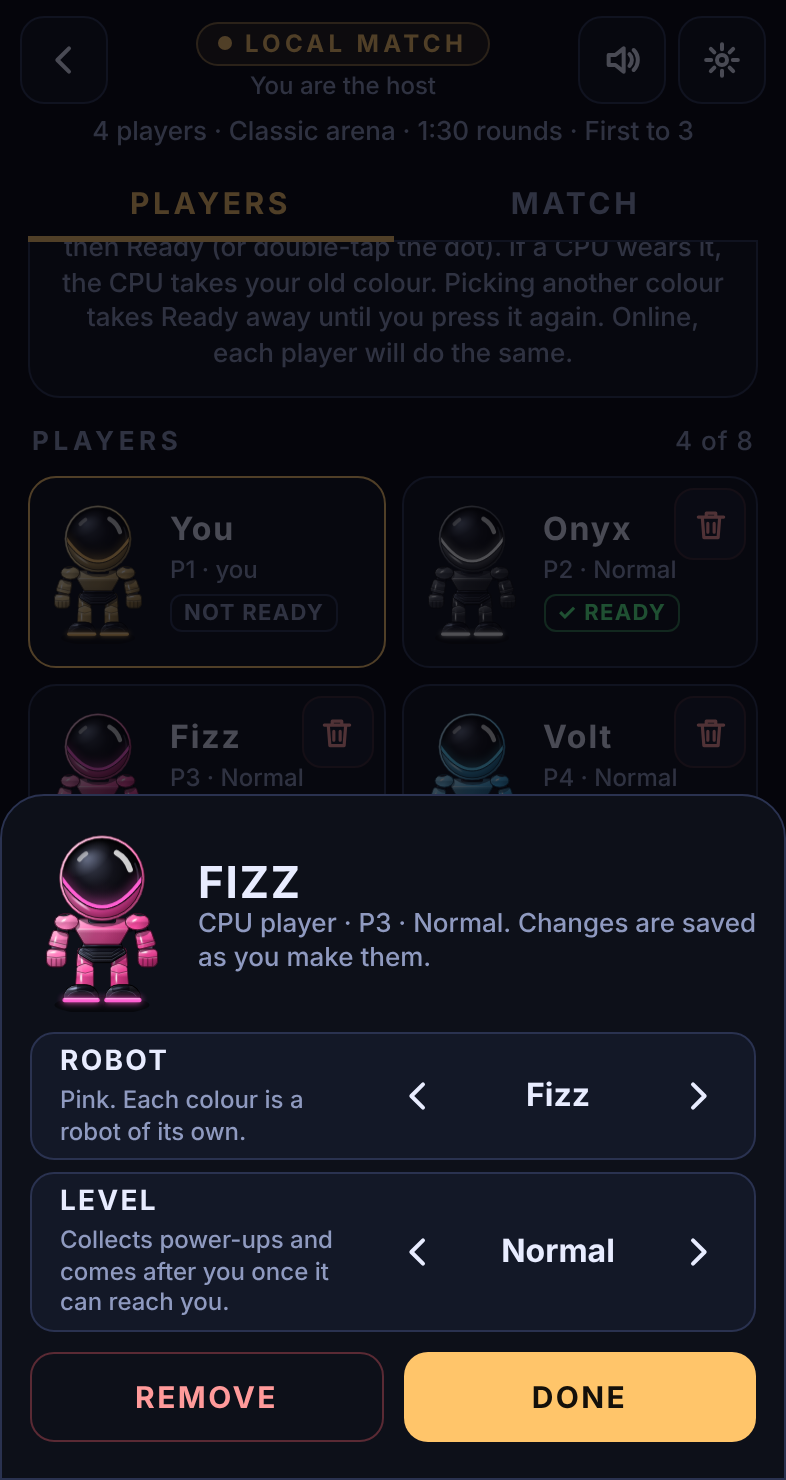
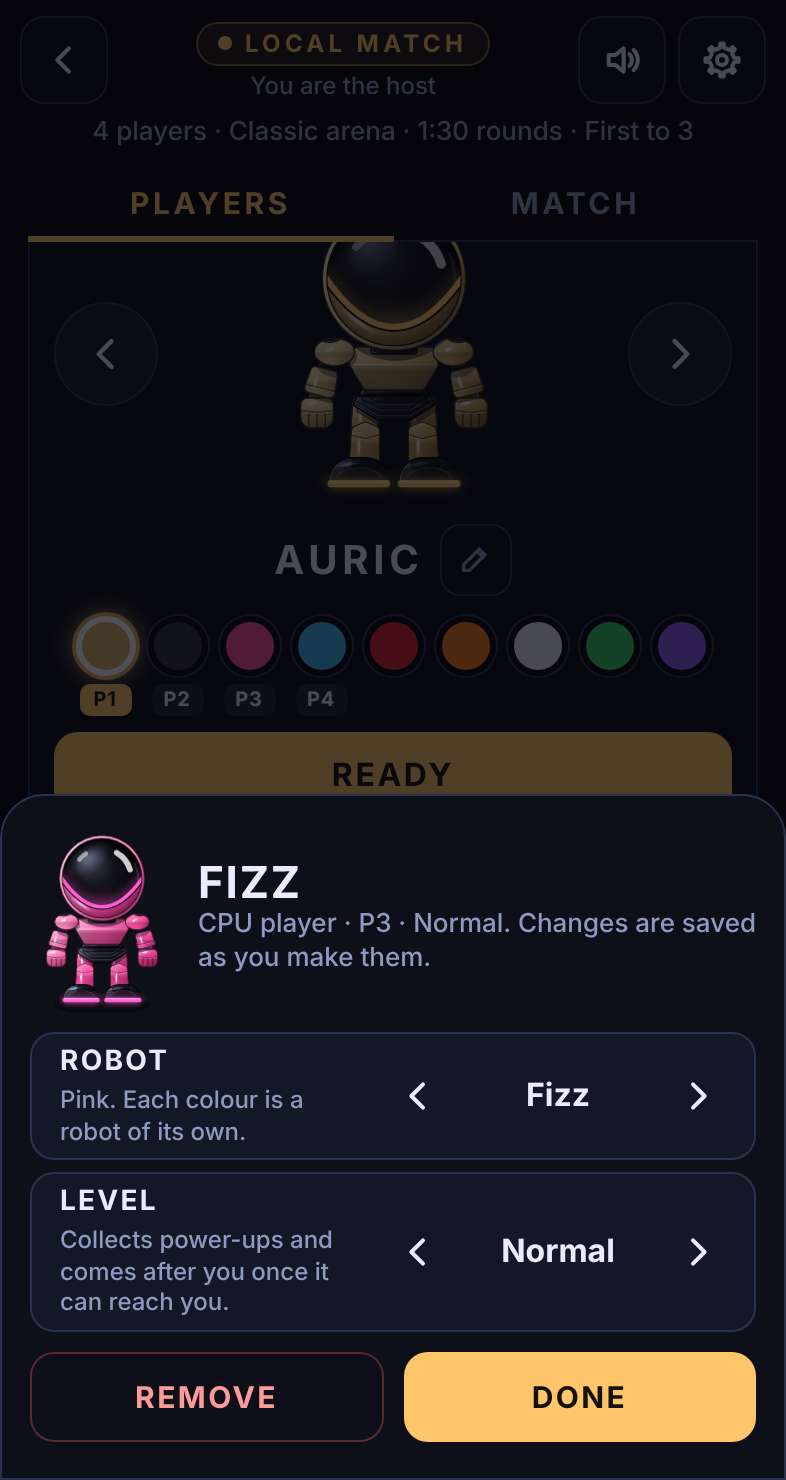
Lobby: a pencil for your name, no explanations, a gear for Settings
The "Your name" row is gone: a pencil beside the name over the colour
dots swaps it for a box to type your own name in its place. Emptied,
it goes back to the robot's name. The help paragraphs on the Players
page are removed; only "Swaps with P3" shows when Ready would take a
CPU player's colour. The Settings button is now a gear.

Claude-Session: https://claude.ai/code/session_011ftAyXDt63myZfd3j4Vhew

diff --git a/src/page.html b/src/page.html
@@ -20,7 +20,7 @@
     touch     on-screen controls: dzone (swipe pad, with the dpad cross and the padTag caption inside it), btnA, btnB
     lobby     setting up a match (lobby.ts): the bar (lobbyBack, lobbyMode, lobbySound, lobbySettings), the summary,
               two pages (pgPlayers, pgMatch): lobbyPlayers (your robot youBot with colPrev, colNext and the colour
-              dots youDots; your name myName; the player cards in slots; allCpus) and lobbyMatch (the arena picture arenaPic with
+              dots youDots; the name over them, youName, with editName, the pencil that swaps it for a box (myName) to type your own; the player cards in slots; allCpus) and lobbyMatch (the arena picture arenaPic with
               arenaPrev, arenaNext, arenaDots, and a Start under it, arenaStart; the rules; rulesReset); then lobbyPrev, lobbyStart, lobbyNext
     cpuSheet  a CPU player's panel, over the lobby: colour and level (cpuRows), cpuRemove, cpuDone
     settings  your own settings, three pages: setControls (Steering thumb: handLeft, handRight; Swipe
@@ -452,6 +452,16 @@
   .ptag.me { color: #14100a; background: var(--accent); }
   .ptag.pop { animation: ptag-pop 420ms cubic-bezier(.2, 1.6, .4, 1); }
   @keyframes ptag-pop { 0% { transform: scale(0.3); } 60% { transform: scale(1.45); } 100% { transform: scale(1); } }
+  .name-row { display: flex; align-items: center; justify-content: center; gap: 8px; min-height: 40px; max-width: 100%; }
+  .icon-btn.pen { width: 36px; height: 36px; border-radius: 10px; color: var(--ink-dim); }
+  .icon-btn.pen svg { width: 17px; height: 17px; }
+  .name-edit {
+    width: 12ch; height: 40px; padding: 0 10px; text-align: center; font: 700 20px/1 var(--font-display); letter-spacing: 0.08em; color: var(--ink);
+    background: #151a28; border: 1px solid var(--accent); border-radius: 10px; outline: none; -webkit-user-select: text; user-select: text; touch-action: manipulation;
+  }
+  .name-edit[hidden] { display: none; }
+  .big-name[hidden] { display: none; }
+  #youState:empty { display: none; }
   .name-field { width: 100%; display: flex; align-items: center; gap: 10px; padding: 2px 2px 4px; }
   .name-field span { flex: 0 0 auto; font: 700 12px/1 var(--font-display); letter-spacing: 0.12em; text-transform: uppercase; color: var(--ink-dim); }
   .name-field input {
@@ -700,7 +710,7 @@
     </div>
     <div class="bar-end">
       <button id="lobbySound" class="icon-btn" type="button" aria-label="Sound settings"><svg viewBox="0 0 24 24" aria-hidden="true"><path d="M4 9h4l5-4v14l-5-4H4z"/><path d="M16.5 8.5a5 5 0 0 1 0 7M19 6a8.5 8.5 0 0 1 0 12"/></svg></button>
-      <button id="lobbySettings" class="icon-btn" type="button" aria-label="Settings"><svg viewBox="0 0 24 24" aria-hidden="true"><circle cx="12" cy="12" r="3"/><path d="M12 2.5v3M12 18.5v3M2.5 12h3M18.5 12h3M5.3 5.3l2.1 2.1M16.6 16.6l2.1 2.1M5.3 18.7l2.1-2.1M16.6 7.4l2.1-2.1"/></svg></button>
+      <button id="lobbySettings" class="icon-btn" type="button" aria-label="Settings"><svg viewBox="0 0 24 24" aria-hidden="true"><path d="M19.29 10.73 L21.95 10.98 L21.95 13.02 L19.29 13.27 L18.05 16.26 L19.75 18.31 L18.31 19.75 L16.26 18.05 L13.27 19.29 L13.02 21.95 L10.98 21.95 L10.73 19.29 L7.74 18.05 L5.69 19.75 L4.25 18.31 L5.95 16.26 L4.71 13.27 L2.05 13.02 L2.05 10.98 L4.71 10.73 L5.95 7.74 L4.25 5.69 L5.69 4.25 L7.74 5.95 L10.73 4.71 L10.98 2.05 L13.02 2.05 L13.27 4.71 L16.26 5.95 L18.31 4.25 L19.75 5.69 L18.05 7.74 Z"/><circle cx="12" cy="12" r="3"/></svg></button>
     </div>
   </header>
   <p class="summary" id="lobbySummary" aria-live="polite"></p>
@@ -712,24 +722,23 @@
     <div class="cols">
       <section id="lobbyPlayers" class="page" role="tabpanel" aria-labelledby="pgPlayers">
         <div class="panel you">
-          <label class="name-field" for="myName"><span>Your name</span>
-            <input id="myName" type="text" maxlength="12" autocomplete="off" autocapitalize="words" spellcheck="false" enterkeyhint="done" placeholder="Type your name">
-          </label>
           <div class="you-row">
             <button class="round-btn" id="colPrev" type="button" aria-label="Previous colour"><svg viewBox="0 0 24 24" aria-hidden="true"><path d="M15 5l-7 7 7 7"/></svg></button>
             <canvas id="youBot" role="img" aria-label="Your robot"></canvas>
             <button class="round-btn" id="colNext" type="button" aria-label="Next colour"><svg viewBox="0 0 24 24" aria-hidden="true"><path d="M9 5l7 7-7 7"/></svg></button>
           </div>
-          <div class="big-name" id="youName"></div>
+          <div class="name-row">
+            <div class="big-name" id="youName"></div>
+            <input id="myName" class="name-edit" type="text" maxlength="12" autocomplete="off" autocapitalize="words" spellcheck="false" enterkeyhint="done" placeholder="Your name" aria-label="Your name" hidden>
+            <button class="icon-btn pen" id="editName" type="button" aria-label="Type your own name"><svg viewBox="0 0 24 24" aria-hidden="true"><path d="M4 20h4L19 9l-4-4L4 16v4zM13.5 6.5l4 4"/></svg></button>
+          </div>
           <p class="hint center" id="youState" aria-live="polite"></p>
           <div class="dots" id="youDots" role="group" aria-label="Colours: under each, the player who wears it"></div>
           <button class="go ok" id="colOk" type="button">Ready</button>
-          <p class="hint center">Each colour is a robot with a name of its own. Pick one with the arrows, a dot or a swipe across your robot, then Ready (or double-tap the dot). If a CPU wears it, the CPU takes your old colour. Picking another colour takes Ready away until you press it again. Online, each player will do the same.</p>
         </div>
         <div class="sec-head"><span>Players</span><span id="playerCount"></span></div>
         <div class="slots" id="slots"></div>
         <div class="opts" id="allCpus"></div>
-        <p class="hint" id="playersNote">Tap a CPU player to change its colour or level. The bin removes it at once (Undo brings it back). Up to 8 players: you and 7 CPU players. With more than 6, the arena grows by two tiles each way. CPU players are always ready.</p>
       </section>
       <section id="lobbyMatch" class="page" role="tabpanel" aria-labelledby="pgMatch">
         <div class="sec-head"><span>Arena</span><span id="arenaCount"></span></div>

diff --git a/src/lobby.ts b/src/lobby.ts
@@ -160,28 +160,41 @@ export function createLobby(host: LobbyHost): {
     dots.append(cell);
   }
   $('colOk').addEventListener('click', readyUp);
-  // your own name: shown on your card. Online, every real player will type theirs here.
+  // Your own name: the pencil beside the name over the colours swaps it for a box to type in (the owner's
+  // design). Your name then shows there and on your card in place of the robot's. Emptied, it goes back to
+  // the robot's name. Online, every real player will type theirs the same way.
   const nameBox = $<HTMLInputElement>('myName');
+  function editName(on: boolean): void {
+    if (on) {
+      nameBox.value = host.myName;
+      nameBox.hidden = false;
+      $('youName').hidden = true;
+      nameBox.focus();
+      nameBox.select();
+    } else if (!nameBox.hidden) {
+      host.myName = nameBox.value.replace(/\s+/g, ' ').trim().slice(0, 12);
+      nameBox.hidden = true;
+      $('youName').hidden = false;
+      changed();
+    }
+  }
+  $('editName').addEventListener('pointerdown', (e) => e.preventDefault()); // keep the box's focus: the pencil then finishes the edit
+  $('editName').addEventListener('click', () => editName(nameBox.hidden === true));
   nameBox.addEventListener('input', () => {
     host.myName = nameBox.value.replace(/\s+/g, ' ').trimStart().slice(0, 12);
     buildSlots();
   });
-  nameBox.addEventListener('change', () => {
-    host.myName = host.myName.trim();
-    nameBox.value = host.myName;
-    buildSlots();
-  });
+  nameBox.addEventListener('blur', () => editName(false));
   nameBox.addEventListener('keydown', (e) => {
-    if (e.key === 'Enter') nameBox.blur();
+    if (e.key === 'Enter' || e.key === 'Escape') {
+      e.stopPropagation();
+      editName(false);
+    }
   });
 
   const allCpus: Opt[] = [
     choice({
       label: 'All CPUs',
-      hint: () => {
-        const lv = new Set(s().cpus.map((c) => c.level));
-        return lv.size > 1 ? 'Mixed levels. Set them all at once here, or one at a time on their cards.' : 'Sets every CPU player at once. Each can also be set on its own card.';
-      },
       values: () => BOT_LEVELS.map((l) => LEVELS[l].label),
       get: () => {
         const lv = new Set(s().cpus.map((c) => c.level));
@@ -566,15 +579,9 @@ export function createLobby(host: LobbyHost): {
     // your robot, in the colour being looked at, and the dots with who wears each colour under them
     drawBotOn($<HTMLCanvasElement>('youBot'), pick, 0.95);
     $('youBot').setAttribute('aria-label', `Your robot, in ${shown.name}${mine ? '' : ' (not yours until you press OK)'}`);
-    $('youName').textContent = botName(shown);
-    $('youState').textContent =
-      mine && ready
-        ? 'P1 · ready'
-        : mine
-          ? 'P1 · your colour. Press Ready when you are happy with it.'
-          : wearer >= 0
-            ? `${botName(shown)} is P${wearer + 2}, a CPU player, now. Ready takes it, and that CPU player becomes ${botName(colorById(host.myColor))}.`
-            : 'Not yours yet: Ready takes it.';
+    $('youName').textContent = host.myName || botName(shown);
+    // no explanations on this page (the owner's call): only a short note when Ready would swap with a CPU player
+    $('youState').textContent = !mine && wearer >= 0 ? `Swaps with P${wearer + 2}` : '';
     const ok = $<HTMLButtonElement>('colOk');
     ok.disabled = mine && ready;
     ok.textContent = mine && ready ? '✓ Ready' : 'Ready'; // just Ready (the owner's wording): the robot's name is right above it
@@ -634,7 +641,8 @@ export function createLobby(host: LobbyHost): {
         p = p ?? 'players';
       }
       $('lobby').hidden = false;
-      ($('myName') as HTMLInputElement).value = host.myName;
+      nameBox.hidden = true;
+      $('youName').hidden = false;
       setPage(p ?? page);
       $('lobbyStart').focus({ preventScroll: true });
     },

diff --git a/CLAUDE.md b/CLAUDE.md
@@ -37,9 +37,10 @@ Do not undo these unless asked. The reasons are in `docs/ROADMAP.md` and `docs/C
 - Controls: see-through swipe pad on the left, B above A on the right. Swipe from wherever the thumb is; keep it down to keep moving; lift to stop.
 - The robot stops where you let go. Whole-tile stepping was tried and rejected (`stepAssist` exists in `sim.ts` but stays off, with no menu setting).
 - A resting thumb has a quiet zone; small movements, slow drift and bounce-back are ignored. Its size is fixed (`QUIET` 30 px). A menu choice of swipe length was tried and removed: do not bring it back unless asked.
+- The Players page has no explanations (the owner's call): no help paragraphs, only a short "Swaps with P3" under your robot's name when Ready would swap with a CPU player. Settings' icon is a gear.
 - The lobby (`lobby.ts`, setup in `setup.ts`), built to the owner's notes on an approved mockup: every button works, back and forward work, more than one way to do each thing, a switch that reveals a slider under it, more options, each CPU player's level its own, and saying whether play is local or online. Two pages, Players and Match. The Players page cannot start a match (the owner's call): its bottom bar is one wide **Match ›** button. The Match page has ‹ Players and **Start**, and a second Start right under the arena picture (the owner's ask, to be close to hand; `arenaStart`, the same `tryStart`); Start when you are not ready asks first ("Ready as Gold and start"), and a line above the bar says you are not ready. On a wide screen both pages show side by side and the button is Start. Players: your colour by ‹ ›, dots or a swipe; a card per player; a CPU player's panel (Colour, Level, Remove, Done); Add CPU player up to seven (eight players in all: the owner's limit); a bin on each CPU player's card removes it at once, with Undo; All CPUs. Match (the host's): the arena (Compact, Classic, Big) and the rules (Round timer with length and Closing in, Rounds to win, Bricks, Custom start, Custom power-ups; Put the rules back to normal). Sliders have − and + beside them. Saved as it changes. Build any new setting from `ui.ts` controls, and only add one that really does something.
 - Each colour is a robot with a name of its own (`bot` in `COLORS`, `botName` in `render.ts`; Claude's names, asked for by the owner): Gold Auric, Black Onyx, Pink Fizz, Blue Volt, Red Blaze, Orange Tango, White Frost, Green Gizmo, Purple Vortex. The menus and results use these names in place of colour words: the big name over the colour dots in the lobby, the player cards, a CPU player's panel (its Robot choice), the menu's standings, "Volt wins the round", "Caught in Fizz's blast". A CPU player's name is its robot's, so it changes with its colour.
-- You can type your own name (`myName`, at the top of the Players page; up to 12 characters, saved as `playerName`). It shows on your player card and in the menu's standings in place of "You"; results still say "You". Online, every real player will type theirs there. A typed name is always set as text, never as markup, and the game's keys (moves, A, B, Q, E) are ignored while typing (`typing` in `input.ts`).
+- You can type your own name: the pencil beside the name over the colour dots swaps it for a box (`myName`; up to 12 characters, saved as `playerName`; Enter, a tap elsewhere or the pencil again finishes; emptied, it goes back to the robot's name). It shows there, on your player card and in the menu's standings in place of the robot's name or "You" (the owner's design, in place of a "Your name" row); results still say "You". Online, every real player will type theirs there. A typed name is always set as text, never as markup, and the game's keys (moves, A, B, Q, E) are ignored while typing (`typing` in `input.ts`).
 - Ask first (`confirmFirst` in `ui.ts`) before anything that cannot be undone: Restart, Leave to the lobby, Put the rules back to normal. Removing a CPU player (the bin on its card, or Remove on its panel) does not ask, as the owner wanted it quick: it shows an Undo bar for six seconds instead. Nothing else asks. Escape goes back one step everywhere; Q and E turn pages.
 - A match: the first to the lobby's Rounds to win (3 by default) wins; the result panel then offers Rematch or Lobby, otherwise Next round or Menu. If you are knocked out and press Next round while CPU players are still fighting, one of those still in gets the round at random, and its point (`settleUnfinished` in `main.ts`; the owner's call, for solo play against CPU players; the panel says so). That point can win the match. Leaving for the lobby ends the match and drops its score; players and rules change only between matches.
 - The menu during a match (`openPause` in `main.ts`) pauses the round and is kept short, as the owner asked: what is going on (Local match chip, Paused or Round over, round number, rules, time left, every player's state and rounds won), Resume, Settings, then the host's Restart (the whole match again: score to 0, round 1, same players and rules) and Leave to the lobby. There is no Restart round: the owner had it removed and asked for one Restart for the whole game, which took New match's place. Online, only the host will have those two, and the round will not pause.

diff --git a/docs/CONTROLS.md b/docs/CONTROLS.md
@@ -47,7 +47,7 @@ The caption on the swipe pad (*Standard swipes* or *My thumb swipes*) is centred
 
 **Local** on the title screen opens the **lobby**, where a match is set up. It has two pages, **Players** and **Match**. The page names along the top switch pages. On the Players page the bottom bar is **Match ›**; on the Match page it is **‹ Players** and **Start**, and there is a second **Start** right under the arena picture. Either Start, when you are not ready, asks first. On a wide screen both pages show side by side.
 
-- **Players:** a **Your name** box (your name shows on your card), then your robot, with ‹ › either side, a dot for each colour under it, and a swipe across the robot: three ways to pick a colour. Each colour is a robot with its own name (Auric, Onyx, Fizz, Volt, Blaze, Tango, Frost, Gizmo, Vortex), shown over the dots and on the cards. It shows on your robot, and becomes yours when you press **Ready** (or double-tap the dot): a **P1** tag pops up under it and your card shows **✓ Ready**. **P2** to **P8** sit under the CPU players' colours, and CPU players are always ready. Take a CPU player's colour and it gets the one you had. Picking another colour takes Ready away until you press it again. This page has no Start: its bottom bar is one wide **Match ›** button. Then a card for each player. Tap a CPU player's card for its panel: Colour, Level (with what that level does), Remove and Done. The **bin** on a CPU player's card removes it at once; an **Undo** bar shows for a few seconds. **Add CPU player** adds one, up to seven (eight players in all). With more than six players the arena grows by two tiles each way. **All CPUs** sets every CPU player's level at once.
+- **Players:** your robot, with ‹ › either side, a dot for each colour under it, and a swipe across the robot: three ways to pick a colour. Each colour is a robot with its own name (Auric, Onyx, Fizz, Volt, Blaze, Tango, Frost, Gizmo, Vortex), shown over the dots and on the cards. The **pencil** beside that name lets you type your own name in its place. It shows on your robot, and becomes yours when you press **Ready** (or double-tap the dot): a **P1** tag pops up under it and your card shows **✓ Ready**. **P2** to **P8** sit under the CPU players' colours, and CPU players are always ready. Take a CPU player's colour and it gets the one you had. Picking another colour takes Ready away until you press it again. This page has no Start: its bottom bar is one wide **Match ›** button. Then a card for each player. Tap a CPU player's card for its panel: Colour, Level (with what that level does), Remove and Done. The **bin** on a CPU player's card removes it at once; an **Undo** bar shows for a few seconds. **Add CPU player** adds one, up to seven (eight players in all). With more than six players the arena grows by two tiles each way. **All CPUs** sets every CPU player's level at once.
 - **Match** (the host's): the arena, with ‹ ›, dots or a swipe (Compact 11 by 9 tiles, Classic 13 by 11, Big 15 by 13; the picture is the real arena, with the bricks the rules ask for), then the rules: Round timer (a switch; when on, Round length and Closing in appear under it), Rounds to win, Bricks, Custom start (a switch; Bombs, Blast and Speed under it), Custom power-ups (a switch; a slider for each power-up under it). **Put the rules back to normal** asks first.
 - Every slider has − and + beside it, and every setting is saved on this device as it changes.
 

diff --git a/docs/ROADMAP.md b/docs/ROADMAP.md
@@ -134,6 +134,7 @@ This is the brief the project started from.
 | Matches | The first to win the lobby's Rounds to win (3 unless changed) wins the match. The result panel then says so with the final score and offers Rematch or Lobby. Leaving a match for the lobby ends it, and the score is not kept: the players and rules can only change between matches. |
 | The menu during a match | Kept short, as the owner asked: what is going on (Local match, Paused or Round over, which round, the rules, time left, each player's state and rounds won), Resume, Settings, then the host's Restart and Leave to the lobby. Online, only the host will have those two, and the round will keep going behind the menu. |
 | Robot names, and your own name | The owner asked for the bots' names in place of colour words, and for real players to enter their own. Each colour is a robot with a name (Claude's): Gold Auric, Black Onyx, Pink Fizz, Blue Volt, Red Blaze, Orange Tango, White Frost, Green Gizmo, Purple Vortex. The lobby shows the robot's name over the colour dots and on the player cards; the menu and the results use them too. A "Your name" box at the top of the Players page puts your name on your card and in the standings; online, every player will type theirs. |
+| Your name by a pencil, and no explanations on the Players page | The owner's design: a small pencil beside the name over the colour dots lets you type your own name in its place (a first version had a "Your name" row). The help paragraphs on the Players page were removed as unnecessary; only "Swaps with P3" shows when Ready would take a CPU player's colour. The Settings button is a gear. |
 | A second Start under the arena | The owner's ask, so Start is close to hand on the Match page: a full-width Start under the arena picture, doing exactly what the Start in the bottom bar does. |
 | One Restart, for the whole match | The menu first had Restart round and New match. The owner had Restart round removed and asked for a Restart that restarts the game completely: everyone's score back to 0 and round 1 in a new arena, with the same players and rules. It asks first. |
 | Settings are your own | Sound (sound effects on/off with the volume under it; a switch and a ▶ for each of the 11 sounds), Controls (steering thumb, swipe direction, how strongly the touch controls show, keys), Graphics (sharpness, ghosts, less movement). Reached from the lobby's gear and speaker and from the menu during a match, not from the title screen. There is no music yet, so there is no music switch; the page says it will come. Game controllers are not supported yet, and Settings › Controls says so. |
